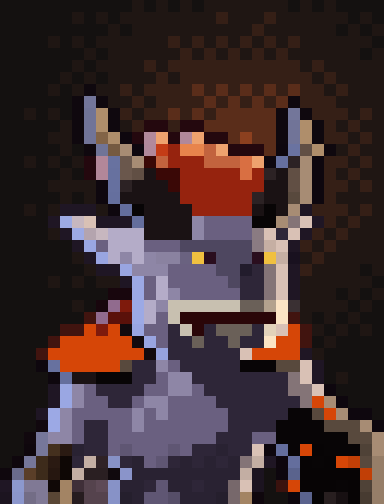
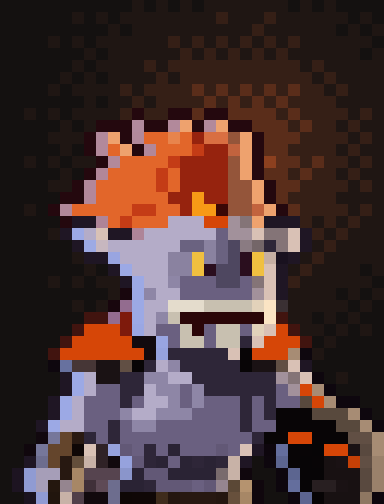
Lion: horns removed (not in the reference); one wide flame-like fan crest swept up and back; brighter portrait, face centred under the crest

diff --git a/client/src/art/portraits/lion.js b/client/src/art/portraits/lion.js
@@ -1,7 +1,7 @@
 // GENERATED by tools/vox/portrait.mjs (lion) -- do not edit by hand. Voxel HUD portrait 32x42 (= the 32x42 the HUD shows, 1 art px = 1 u), opaque.
 // Loaded by client/src/art/portraits.js, which swaps it into the sheet's 'portrait' frame unless ?vox=0.
 export default {
-  pal: { '0':'#292232', '1':'#0e070e', '2':'#0f080e', '3':'#d9c1b5', '4':'#24080e', '5':'#a78c74', '6':'#070405', '7':'#b4acc8', '8':'#4e4760', '9':'#58493d', '!':'#141110', '#':'#1f1613', '$':'#351f16', '%':'#2e2638', '&':'#6a6080', '(':'#d64607', ')':'#1a1214', '*':'#96230e', '+':'#1f1624', ',':'#080506', '-':'#5a2d1a', '/':'#8e86a6', ':':'#847477', ';':'#2a0608', '<':'#c8c0b0', '=':'#41140f', '>':'#6a6058', '?':'#af8e6b', '@':'#9ca9e5', 'A':'#5f5673', 'B':'#c2633e', 'C':'#717498', 'D':'#eea26e', 'E':'#614f44', 'F':'#3a0806', 'G':'#2c2224', 'H':'#646e9d', 'I':'#99a5e1', 'J':'#0f070d', 'K':'#0d060d', 'L':'#c3aea3', 'M':'#967e68', 'N':'#9aa7e3', 'O':'#18060d', 'P':'#fbe4c4', 'Q':'#120a0e', 'R':'#76779a', 'S':'#8792c7', 'T':'#1c1420', 'U':'#807995', 'V':'#a38464', 'W':'#55434d', 'X':'#73769a', 'Y':'#707497', 'Z':'#b1889a', '[':'#e8844c', ']':'#b28799', '^':'#6a574c', '_':'#d96f42', 'a':'#66709f', 'b':'#67719f', 'c':'#656f9e', 'd':'#9daae4', 'e':'#c7b7bf', 'f':'#8a7b82', 'g':'#c6afa3', 'h':'#8a82a0', 'i':'#f0c040', 'j':'#2a0e1e', 'k':'#916b8e', 'l':'#7e1a0c', 'm':'#5a110a', 'n':'#11080e', 'o':'#2a1a12', 'p':'#4f4237', 'q':'#3d2b1b', 'r':'#0e0705', 's':'#c13f06', 't':'#2a1f22', 'u':'#5a638d', 'v':'#77686b', 'w':'#251f2d', 'x':'#836447', 'y':'#b2899b', 'z':'#8c401f', '{':'#755a41', '|':'#c43c16', '}':'#6a73a1', '~':'#6872a0', '¡':'#b4a4ae', '¢':'#6a6280', '£':'#19111f', '¤':'#221c2c', '¥':'#b3a28e', '¦':'#3a3033', '§':'#e2d2ba', '¨':'#96a2dd', '©':'#44301e', 'ª':'#2f2226', '«':'#6a6b8b', '¬':'#5a3e28', '®':'#261710', '¯':'#10090d', '°':'#8a94ca', '±':'#8c98ce', '²':'#100806', '³':'#3f2f38', '´':'#5e4a56', 'µ':'#3a120e', '¶':'#8b96cc', '·':'#736d86', '¸':'#594635', '¹':'#261c1f', 'º':'#564e68', '»':'#060405', '¼':'#281f20', '½':'#171012', '¾':'#473b31' },
+  pal: { '0':'#080506', '1':'#8e86a6', '2':'#d9c1b5', '3':'#eea26e', '4':'#c8c0b0', '5':'#9ca9e5', '6':'#2a2334', '7':'#94553a', '8':'#0e070e', '9':'#1a1214', '!':'#141110', '#':'#1f1613', '$':'#351f16', '%':'#6a6080', '&':'#b4acc8', '(':'#2e2638', ')':'#e2662a', '*':'#5a2d1a', '+':'#24080e', ',':'#d64607', '-':'#1f1624', '/':'#96230e', ':':'#625876', ';':'#41140f', '<':'#2a0608', '=':'#181112', '>':'#c43c16', '?':'#a78c74', '@':'#b2899b', 'A':'#a2919b', 'B':'#847477', 'C':'#8a82a0', 'D':'#4e4760', 'E':'#58493d', 'F':'#b28799', 'G':'#614f44', 'H':'#0d060d', 'I':'#070506', 'J':'#271811', 'K':'#6a6280', 'L':'#f0c040', 'M':'#64452c', 'N':'#10070d', 'O':'#c8b2a7', 'P':'#f79a16', 'Q':'#2a0e1e', 'R':'#e4dccc', 'S':'#120a0e', 'T':'#96a2dd', 'U':'#0f0706', 'V':'#59493f', 'W':'#6d6d8e', 'X':'#11090d', 'Y':'#5c6590', 'Z':'#9a816b', '[':'#909bd3', ']':'#a69eb8', '^':'#a78766', '_':'#56444f', 'a':'#d96f42', 'b':'#c2633e', 'c':'#ae8498', 'd':'#99a5e1', 'e':'#18060d', 'f':'#936c8f', 'g':'#e2d2ba', 'h':'#fbe4c4', 'i':'#7e1a0c', 'j':'#463636', 'k':'#76779a', 'l':'#2f2226', 'm':'#646e9d', 'n':'#1d1421', 'o':'#95858f', 'p':'#281f21', 'q':'#24160f', 'r':'#b28a9d', 's':'#e8844c', 't':'#8c401f', 'u':'#3a0806', 'v':'#9daae4', 'w':'#c7b7bf', 'x':'#8a7b82', 'y':'#746668', 'z':'#c6afa3', '{':'#19111f', '|':'#3a3033', '}':'#9aa7e3', '~':'#67719f', '¡':'#11080e', '¢':'#2a1a12', '£':'#634e3b', '¤':'#c54006', '¥':'#8a95cb', '¦':'#796b6d', '§':'#24170e', '¨':'#403039', '©':'#5e4a56', 'ª':'#5b4836', '«':'#b5936f', '¬':'#1a131f', '®':'#21150d', '¯':'#503f49', '°':'#0e0705', '±':'#3f2c1c', '²':'#67503c', '³':'#070405', '´':'#8e7762' },
   face: [4, 11, 24, 24],
   rows: [
     '!!!!!!!!!!!#!#!#!#######!#!#!!!!',
@@ -11,40 +11,40 @@ export default {
     '!!!!!!!#!######$#$#$#$#$######!#',
     '!!!!!!#!####$#$$$$$$$$$$$#$#####',
     '!!!!!#!#!####$#$$$$$$$$$$$#$####',
-    '!!!!#!#2##$#$$$$-$-$-$-$-$$#$###',
-    '!!!!!!2X2##$#$$$$-$-$-$-2$$$####',
-    '!!#!#!2Y?2$#$$-$-$-----2X2$$$#$#',
-    '!!!!!#2C?2#$44$44------2C?2$#$##',
-    '!!!!##2Cx?14yD4ZD44-z--2C?2$$#$#',
-    '!!!!!#!2Y{51Z|*[[BD444-1}E?2#$##',
-    '!!#!#!#4]~^5FB***BBB_D1aG51$$#$#',
-    '!!!!!#!4]b^E)FF*****_*G)E51$#$##',
-    '!!!!####1aG)))F*******))E51$$#$#',
-    '!!!!!#!#1c)))))******G))951$####',
-    '!!#!#+++#1H,))))*****),)5+$$$#$#',
-    '!!!!+de3+++H))))/&&&&,,5:3+$#$##',
-    '!!!!#+d¡e777))))/&&&&f3%3+$#$###',
-    '!!!!!!+N&777&&&888888fg3+$#$####',
-    '!!!!!!#+I7/7/hh¢ij888jig£#$#####',
-    '!!!!!!!#++I///&&&&88¤%:3+$####!#',
-    '!!!!#!#!##+@&7&&&&&8%%:3+######!',
-    '!!!!!!!!!OO@&7/&&&&&%%:3+###!#!#',
-    '!!!!!!#!Okl@7/<<<<<<>>¥P¦####!#!',
-    '!!!!!!!=kmm@7&<;;;;;;;;P=#!#!#!!',
-    '!!!!!==(l(QI&&%<;%>>>%§3(=#!#!#!',
-    '!!!!=((((((QI&%%>%%>%%P((=!#!!!!',
-    '!!!=((((((((Q¨%%%%%%3((((+#!!!!!',
-    '!!!1b(((((9%%/&%%%%%,,,993+!!!!!',
-    '!!!!1c)),,,%%&//%%%%%%%%:3+!#!!!',
-    '!!!!+N/&%%%%&&//&%%%%%%%::31!!!!',
-    '!!!!+N/&&%%&//&&&&%%%%%%%:(51!!!',
-    '!!!+@/&&&&&/&/&&&&&%%%%%,,9(511!',
-    '!!!n@/&%%&&/&&&&&&&%%%%,,,,99951',
-    '!!nR//&%%&&&&&&&&&%%%&&,,,,,,995',
-    '!!JR©o0%%&A&&&A&%%0%%3KH,(6,,,p5',
-    '!JRqor%LªS%0&A%0%0%0:L+KH6,6(s9M',
-    'J«¬q®rLtt¯°000000000LT!Ku66666sM',
-    '+±UU²V³W´S00%A00%00v3T!µ(666,6pM',
-    'T¶·U¸V¹WWSw0AAº000wvVJ!!Ku»¼½6¾M'
+    '!!!!#!####$#$$$$*$*$*$*$*$$#$###',
+    '!!!!!!!#!##$#$$$$*$*$*$*$$$$####',
+    '!!#!#!####$+$$++*++****$*$$$$#$#',
+    '!!!!!#!#+++r++@3+@3++***$*$$#$##',
+    '!!!!###+@3+@))s)/aa73+***$$$$#$#',
+    '!!!!!#!+@)3+F)))>//b3+**$$$$#$##',
+    '!!#!#!##+@))))>////73+t**$*$$#$#',
+    '!!!!!#!+F))))>)////73+**$*$$#$##',
+    '!!!!##+F)))))>)////773+**$$$$#$#',
+    '!!!!!++F))))))//P//773+*$$$$####',
+    '!!#!+F)))))>>))/PPu77b3+*$$$$#$#',
+    '!!!!!+--c)>)))&&&,,AB3---$#$#$##',
+    '!!!!#-5&2--c&&&&&&%AA2BB2-$#$###',
+    '!!!!!!-vw&&&&&&KKCKDxy(B2-#$####',
+    '!!!!!!#--d&&&&CCLCKDQLz{-#$#####',
+    '!!!!!!!#!-5&&&CCLQDDQL2-#$####!#',
+    '!!!!#!#!##-5&&1%%%DD%B2-$######!',
+    '!!!!!!!!!#e51&&%%%%%%A2-####!#!#',
+    '!!!!!!#!#ef5&&RRR4444gh|#####!#!',
+    '!!!!!!!;;fi5&14<<<<<<<h;##!#!#!!',
+    '!!!!!!;,,,i}&%%4<%44%g2,;##!#!#!',
+    '!!!!!;,,,,,SSd%44%44(2,,,;!#!!!!',
+    '!!!!;,,,,,,,ST(((((20,,,?8#!!!!!',
+    '!!!!8~jj99G0(&1(((((099G2-!!!!!!',
+    '!!!!!-5&99((11&&(((((((AB28!#!!!',
+    '!!!!!-5&%%((&11%1((((((%A,?8!!!!',
+    '!!!!-5&%%%(%&&1%1%%%(%(%%E,?88!!',
+    '!!!!-5&%%%1&&111%%%%(%(000EEE?8!',
+    '!!!-5&&%%(%11%%%%%%%(%%00000EE?8',
+    '!!!¡kM¢(%(%%%%%%%%%%%(00,,000GG?',
+    '!!NkMMU2lT:%(%6%%%:%2-Hm00I,,9V?',
+    '!!-WMJ£OlXT:(6%6(6(O-!8Y0I0=9¤GZ',
+    '!n[]]J^___¥6::6666¦ON!!HYII===VZ',
+    '!n[]§o^¨©W66(:::%:oª«N!HmIpp9=VZ',
+    '!!¬[®O¯XXW°UU±qJJJq²^N!!HY³===´H'
   ]
 };

diff --git a/shared/vox/heroes/lion.js b/shared/vox/heroes/lion.js
@@ -1,8 +1,8 @@
 // Voxel Lion, a chibi of his Dota 2 model (hand-authored): a hunched lavender-grey demon; big head pushed forward with long pointed bat ears,
-// a wide toothy grin, small yellow eyes and an orange gem on the brow; a tall red-orange hood flaring up behind the head; glowing orange orb
+// a wide toothy grin, small yellow eyes and an orange gem on the brow; a wide red-orange flame-like fan crest swept up and back behind the head; glowing orange orb
 // pauldrons; a dark plum cape down the back; a red loincloth on a dark belt; digitigrade-ish bare legs. Right (-x) hand: a short dark staff
 // with a glowing orange orb head. Left (+x) arm: the huge black demon claw with orange glowing cracks and talons.
-// Signature reads: red hood fan behind the pointed-eared head; the oversized black-and-orange claw at his left; the orange orb staff at his
+// Signature reads: red fan crest behind the pointed-eared head; the oversized black-and-orange claw at his left; the orange orb staff at his
 // right. Grid 52 x 50 x 48, ~44 voxels tall, faces -y.
 import { Vox } from '../vox.js';
 import { useMat } from '../mats.js';
@@ -122,24 +122,20 @@ export function build(p = {}) {
   ell(v, Th, [hx, hy, hz], [5, 4.6, 5], M.skin);
   ell(v, Th, [hx, hy - 1, hz - 3], [5.2, 4.2, 2.8], M.skin);
   ell(v, Th, [hx, hy - 3.4, hz + 1.2], [4.4, 1.4, 1.2], M.skinD);   // heavy brow
-  for (const s of [-1, 1]) {   // pointed bat ears, swept out and back below the horns
+  for (const s of [-1, 1]) {   // pointed bat ears, swept out and back in front of the crest
     cap(v, Th, [hx + s * 4, hy + 0.8, hz + 0.4], [hx + s * 7.2, hy + 2.4, hz + 2], 1.4, M.skin, 0.8);
     cap(v, Th, [hx + s * 7.2, hy + 2.4, hz + 2], [hx + s * 8.8, hy + 3.6, hz + 3.6], 0.8, M.skin, 0.3);
   }
-  // the mane: red-orange locks swept up and back from the brow over the crown, tips flaring high behind the head, then falling to the nape
+  // the crest, then a short fall down the nape onto the cape collar
   const lock = (px, py, pz) => (pz > hz + 8 ? M.hood : py > hy + 4 ? M.hoodD : M.hood);
-  for (const s of [-3, -1, 1, 3]) {
-    const a = [hx + s * 1.1, hy - 0.4, hz + 4.2], m = [hx + s * 1.5, hy + 3.2, hz + 7 - Math.abs(s) * 0.4], b = [hx + s * 2, hy + 7.6, hz + 9.6 - Math.abs(s) * 0.7];
-    cap(v, Th, a, m, 1.7, lock, 1.4);
-    cap(v, Th, m, b, 1.4, lock, 0.4);
+  // one wide flame-like fan: locks radiating from the crown over a half circle (up and out to both sides), tilted back; darker toward the root
+  const fan = (px, py, pz) => (py > hy + 4.6 ? M.hoodD : M.hood);
+  for (let i = 0; i <= 8; i++) {
+    const th = (-80 + i * 20) * Math.PI / 180, L = 8.6 - Math.abs(Math.sin(th)) * 1.4;
+    const a = [hx + Math.sin(th) * 1.6, hy + 1.6, hz + 3.6], b = [hx + Math.sin(th) * (L + 1.6), hy + 6 + Math.abs(Math.sin(th)) * 0.6, hz + 3.6 + Math.cos(th) * L];
+    cap(v, Th, a, b, 1.9, fan, 0.5);
   }
   for (const s of [-2, 0, 2]) cap(v, Th, [hx + s, hy + 3, hz + 4], [hx + s * 1.3, hy + 6.4, hz - 3.4], 1.8, M.hoodD, 0.6);   // fall down the nape
-  // horns: two dark curved horns from the temples, out and up, hooking back at the tips
-  for (const s of [-1, 1]) {
-    const P = [[hx + s * 3.2, hy - 1.2, hz + 3.4], [hx + s * 5.6, hy - 1, hz + 5.6], [hx + s * 7.2, hy, hz + 8.2], [hx + s * 7.4, hy + 2, hz + 10.4], [hx + s * 6.6, hy + 4, hz + 11.4]];
-    const R = [1.4, 1.15, 0.9, 0.6, 0.35];
-    for (let i = 0; i + 1 < P.length; i++) cap(v, Th, P[i], P[i + 1], R[i], i < 2 ? M.claw : M.wood, R[i + 1]);
-  }
 
   // ---- face, painted on the front-most head voxels only (never on the claw or staff in front): brow gem, small yellow eyes under the brow,
   // a wide grin with a row of teeth. Integer rows from the posed head (paintFront indexes cells).
@@ -182,4 +178,4 @@ export const ANIMS = {
 };
 
 /** HUD portrait framing (tools/vox/portrait.mjs): idle, the grinning head in the upper third with the red hood fanned behind it. */
-export const PORTRAIT = { pose: ANIMS.idle[0], center: [cx, HY, 32.5], scale: 1.2, fov: 24, sig: '#d64607', ambient: 0.42, levels: [0.6, 0.85, 1], falloff: 0.1, face: [4, 11, 24, 24] };
+export const PORTRAIT = { pose: ANIMS.idle[0], center: [cx, HY, 33], scale: 1.1, fov: 24, sig: '#d64607', ambient: 0.6, levels: [0.72, 0.92, 1], falloff: 0.08, face: [4, 11, 24, 24] };
